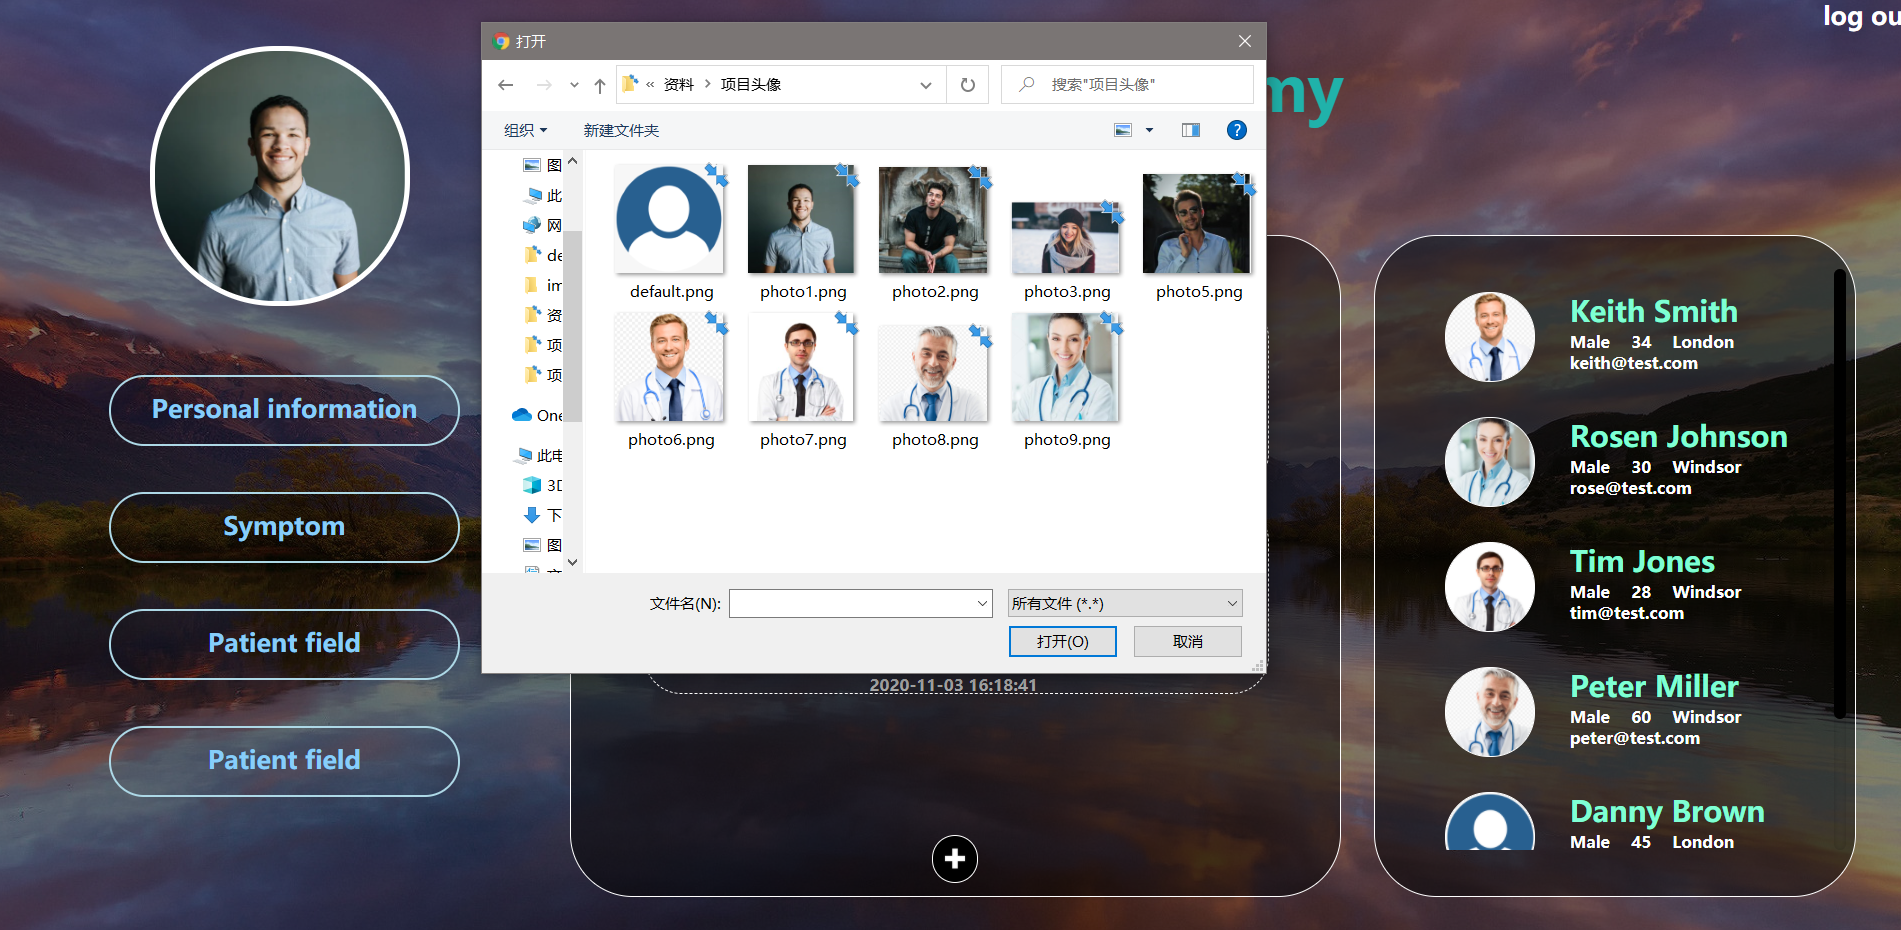
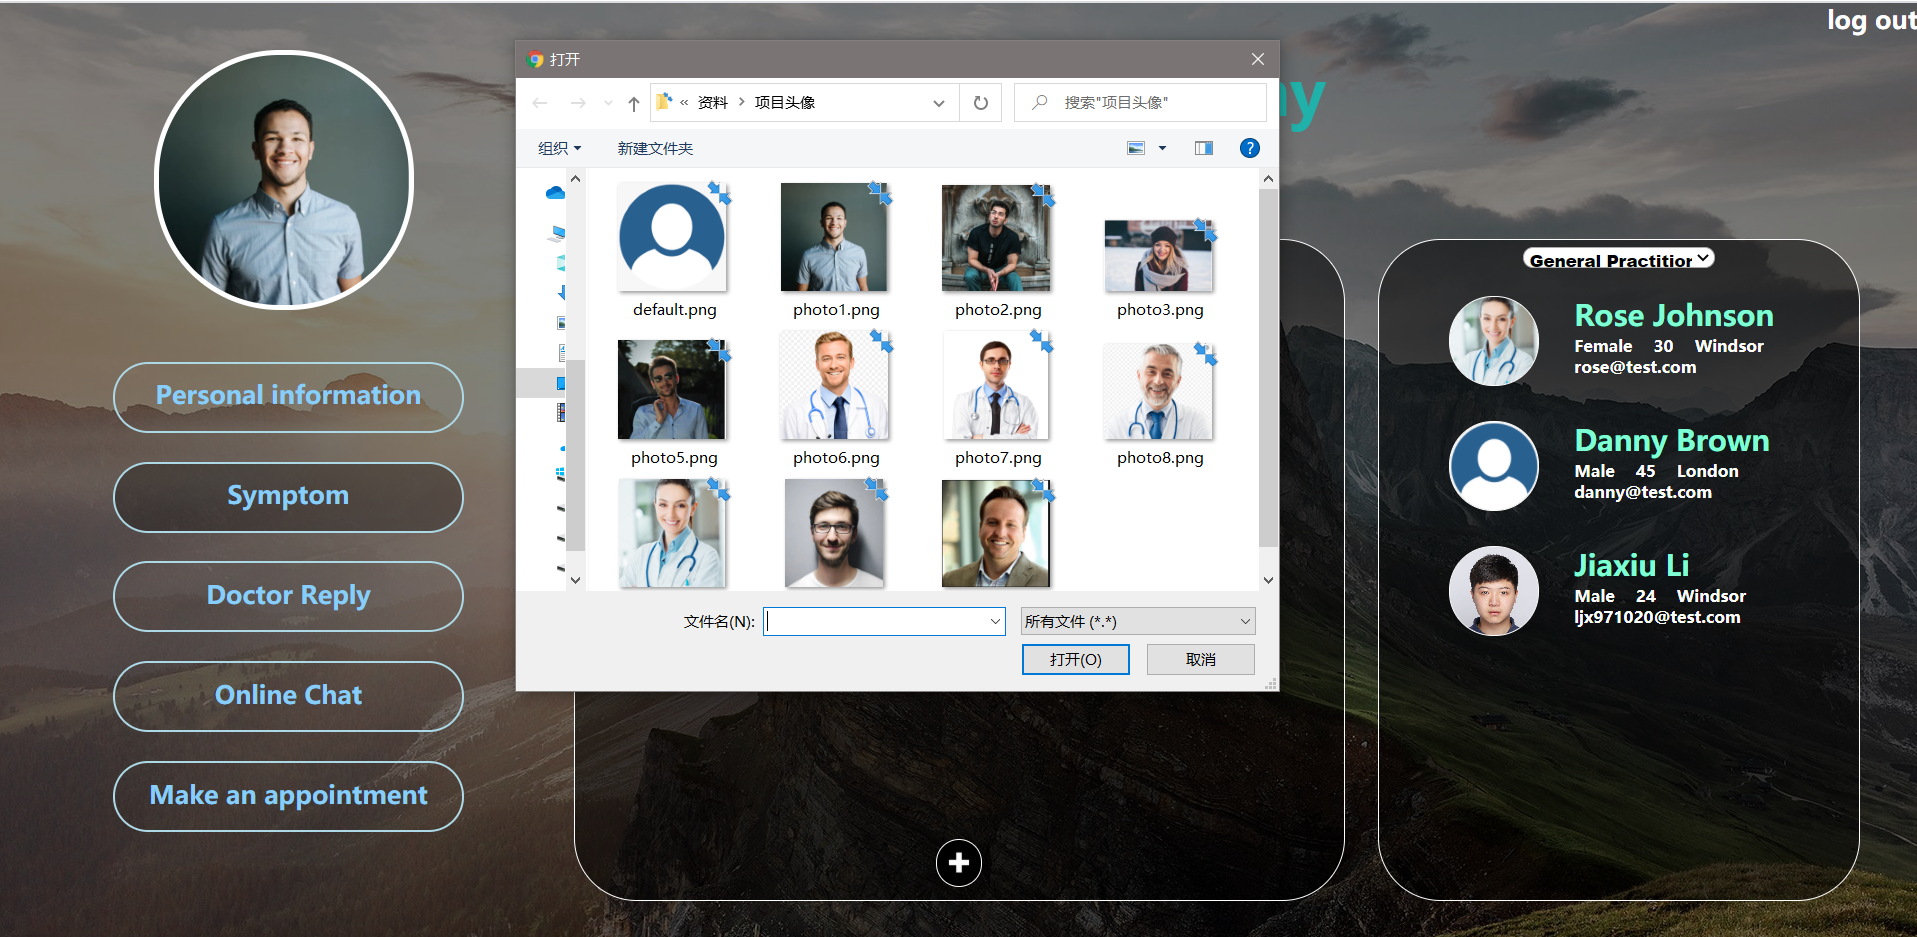
update readme

diff --git a/README.md b/README.md
@@ -22,12 +22,21 @@ These change will be saved in the database directly.
 click the record you want to send, then the doctor list will be displayed, and choose a foctor to send to.
 ![image](https://github.com/jiaxiuli/HealthCare-using-Django/blob/master/IMG/send.png)
 
+# move your mouse on the doctor to see their more detailed information
+![image](https://github.com/jiaxiuli/HealthCare-using-Django/blob/master/IMG/hover.png)
+
+# filtrate doctors based on their department.
+![image](https://github.com/jiaxiuli/HealthCare-using-Django/blob/master/IMG/filter.png)
+
 # change profile photo 
 by clicking the photo, users can change their photo by picking from their computer.
 ![image](https://github.com/jiaxiuli/HealthCare-using-Django/blob/master/IMG/change%20photo.png)
 
 # doctor account
 ![image](https://github.com/jiaxiuli/HealthCare-using-Django/blob/master/IMG/doctor%20account.png)
+
+# add specialty details
+![image](https://github.com/jiaxiuli/HealthCare-using-Django/blob/master/IMG/docDetails.png)
 
 # check how many records I have received
 There is a red point beside the unread message and beside the "received symptom" tag with the number of unread messages.
